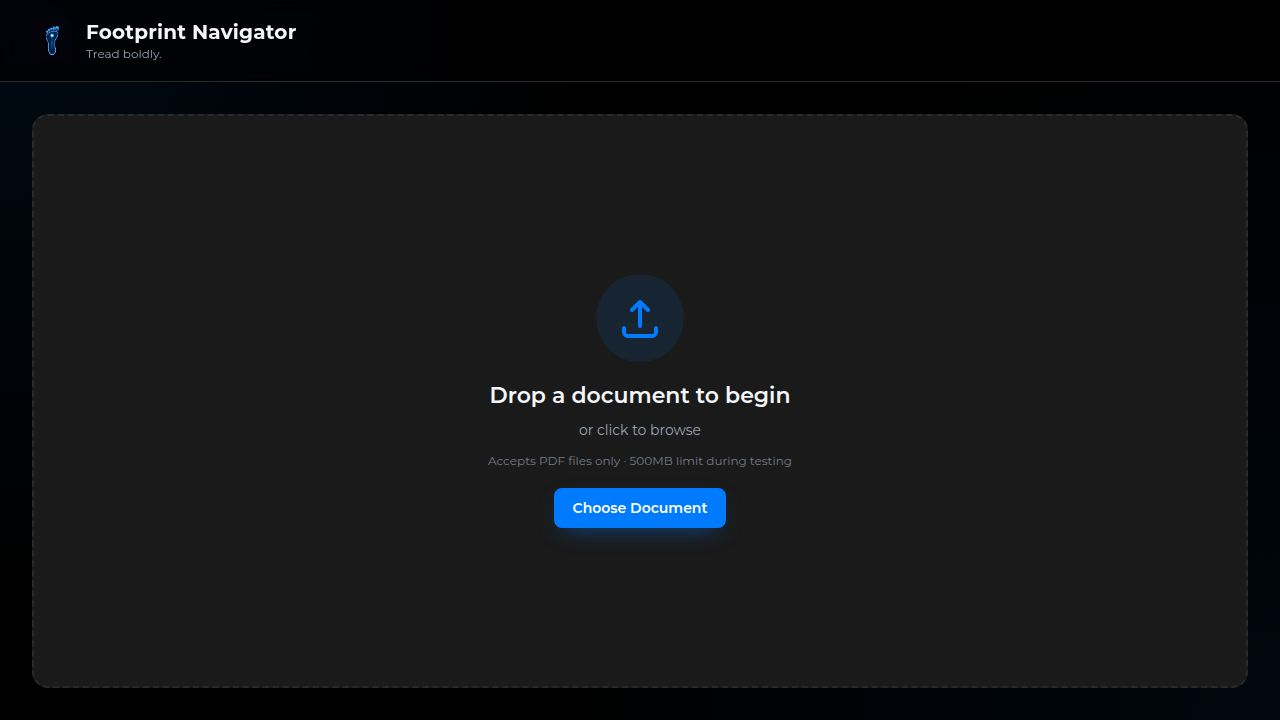
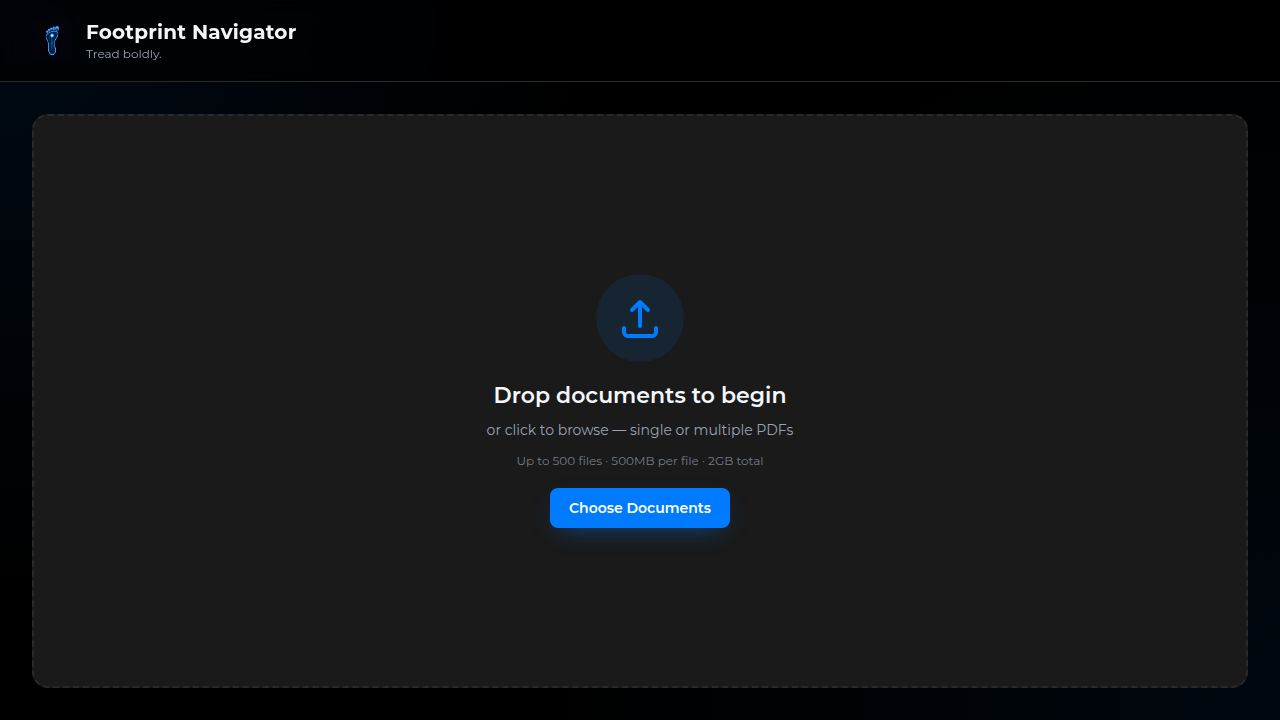
Add sample documents modal to upload screen

Changed region(s): [[0.375, 0.5194, 0.625, 0.6417], [0.4062, 0.6722, 0.5938, 0.7333]]

diff --git a/artifacts/footprint-pdf/vite.config.js b/artifacts/footprint-pdf/vite.config.js
@@ -22,10 +22,8 @@ export default defineConfig({
     allowedHosts: true,
     hmr: { clientPort: 443 },
     proxy: {
-      "/pdf-api": {
-        target: "http://localhost:4001",
-        changeOrigin: true,
-      },
+      "/pdf-api": { target: "http://localhost:4001", changeOrigin: true },
+      "/ping":     { target: "http://localhost:4001", changeOrigin: true },
     },
   },
   preview: {

diff --git a/artifacts/api-server/src/routes/health.ts b/artifacts/api-server/src/routes/health.ts
@@ -8,4 +8,8 @@ router.get("/healthz", (_req, res) => {
   res.json(data);
 });
 
+router.get("/ping", (_req, res) => {
+  res.json({ ok: true, timestamp: new Date().toISOString() });
+});
+
 export default router;